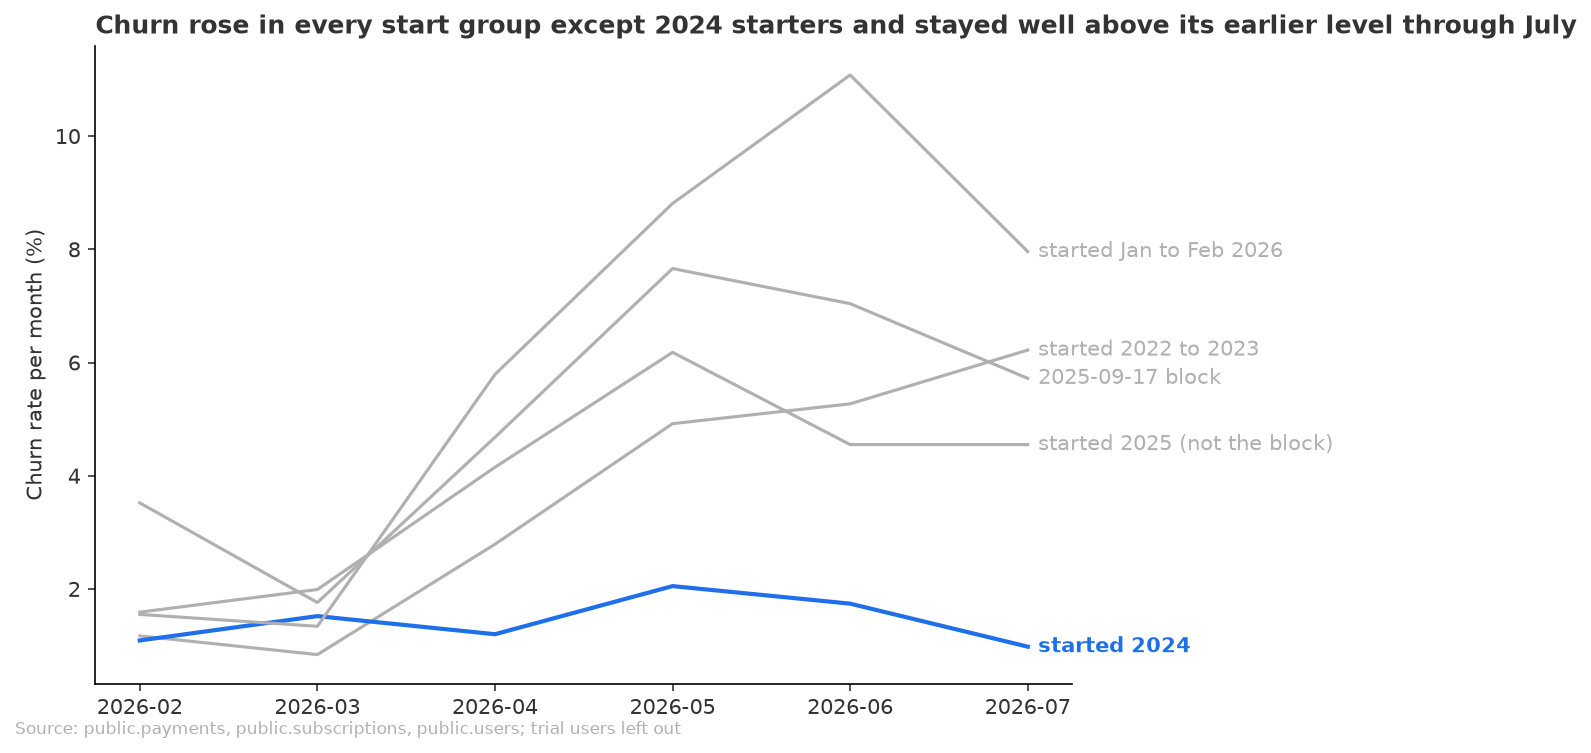
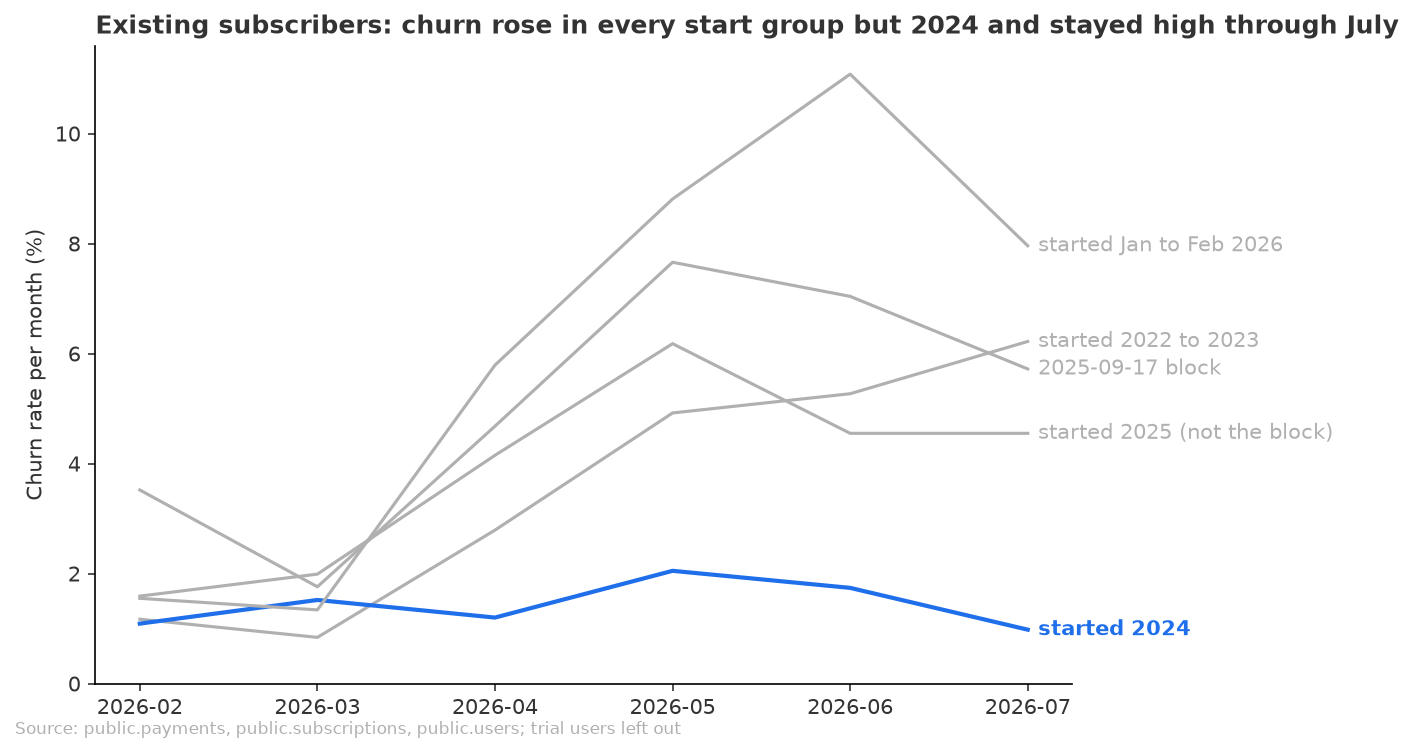
Validate round 2 fixes: compounding $10 counterfactual, July rate as third case

diff --git a/outputs/2026-11-17_price-rise-rollback/analysis.py b/outputs/2026-11-17_price-rise-rollback/analysis.py
@@ -227,11 +227,32 @@ def group_rate(df):
     return df["missed_renewals"].sum() / df["renewals_due"].sum()
 
 
+AFTER_MONTHS = ["2026-03", "2026-04", "2026-05", "2026-06", "2026-07"]
+# Entries into the renewal stream after the rise: existing groups are closed, so all of them enter with
+# their March renewals; new subscribers enter at their first renewal each month.
+new_first = early[(early["start_group"] == "new") & (early["renewal_number"].astype(str) == "1")]
+new_entries = new_first.set_index("due_month")["renewals_due"].reindex(AFTER_MONTHS, fill_value=0)
+
+
+def counterfactual_10(entries, c0):
+    """Revenue Mar to Jul had the price stayed $10: renewals carried forward month by month at the $10
+    churn rate, so subscribers lost to the extra churn keep paying on this side."""
+    due, revenue = 0.0, 0.0
+    for m in AFTER_MONTHS:
+        due += entries.get(m, 0)
+        paid = due * (1 - c0)
+        revenue += paid * OLD_PRICE
+        due = paid
+    return revenue
+
+
 rows = []
 for g in GROUPS:
     d = coh[coh["group"] == g]
     young = g in ("new (started at $12)", "started Jan to Feb 2026")
     c0 = e.churn_rate_before if young else group_rate(d[d["period"] == "before"])
+    entries = (new_entries.to_dict() if g == "new (started at $12)"
+               else {"2026-03": d.loc[d["due_month"] == "2026-03", "renewals_due"].sum()})
     rows.append({
         "group": g,
         "base_jul_2026": d.loc[d["due_month"] == "2026-07", "renewals_due"].sum(),
@@ -239,25 +260,32 @@ for g in GROUPS:
         "churn_at_10_source": "pre-March starters, first three renewals" if young else "own, Nov 2025 to Feb 2026",
         "churn_at_12_settled": group_rate(d[d["due_month"] >= "2026-05"]),
         "churn_at_12_mar_jul": group_rate(d[d["period"] == "after"]),
-        # Observed so far: each renewal due Mar to Jul at $12 with the churn seen, against the same
-        # renewals at $10 with the $10 churn rate (one month each, no compounding).
+        "churn_at_12_jul": group_rate(d[d["due_month"] == "2026-07"]),
+        # Observed so far: renewals actually paid Mar to Jul at $12, against the same entries carried
+        # forward at $10 with the $10 churn rate.
         "observed_mar_jul_at_12": ((d.loc[d["period"] == "after", "renewals_due"]
                                     - d.loc[d["period"] == "after", "missed_renewals"]) * NEW_PRICE).sum(),
-        "counterfactual_mar_jul_at_10": (d.loc[d["period"] == "after", "renewals_due"] * (1 - c0) * OLD_PRICE).sum(),
+        "counterfactual_mar_jul_at_10": counterfactual_10(entries, c0),
     })
 money = pd.DataFrame(rows)
 money["observed_gain_mar_jul"] = money["observed_mar_jul_at_12"] - money["counterfactual_mar_jul_at_10"]
 money["rollback_10_12m"] = money.apply(lambda r: revenue_12m(r.base_jul_2026, r.churn_at_10, OLD_PRICE), axis=1)
-money["keep_12_12m_settled"] = money.apply(lambda r: revenue_12m(r.base_jul_2026, r.churn_at_12_settled, NEW_PRICE), axis=1)
-money["keep_12_12m_mar_jul"] = money.apply(lambda r: revenue_12m(r.base_jul_2026, r.churn_at_12_mar_jul, NEW_PRICE), axis=1)
-money["gain_12m_settled"] = money["keep_12_12m_settled"] - money["rollback_10_12m"]
-money["gain_12m_mar_jul"] = money["keep_12_12m_mar_jul"] - money["rollback_10_12m"]
+for case in ("settled", "mar_jul", "jul"):
+    money[f"keep_12_12m_{case}"] = money.apply(
+        lambda r: revenue_12m(r.base_jul_2026, r[f"churn_at_12_{case}"], NEW_PRICE), axis=1)
+    money[f"gain_12m_{case}"] = money[f"keep_12_12m_{case}"] - money["rollback_10_12m"]
 money["breakeven_churn_at_12"] = money["churn_at_10"].map(breakeven_churn)
 money["headroom_pp_settled"] = (money["breakeven_churn_at_12"] - money["churn_at_12_settled"]) * 100
+signs = money[["gain_12m_settled", "gain_12m_mar_jul", "gain_12m_jul"]].gt(0)
+money["call_12m"] = signs.all(axis=1).map({True: "keep $12"}).fillna(
+    (~signs).all(axis=1).map({True: "roll back to $10"})).fillna("too close to call")
 total = money[["base_jul_2026", "observed_mar_jul_at_12", "counterfactual_mar_jul_at_10", "observed_gain_mar_jul",
-               "rollback_10_12m", "keep_12_12m_settled", "keep_12_12m_mar_jul", "gain_12m_settled",
-               "gain_12m_mar_jul"]].sum()
-money = pd.concat([money, pd.DataFrame([{"group": "all monthly", **total.to_dict()}])], ignore_index=True)
+               "rollback_10_12m", "keep_12_12m_settled", "keep_12_12m_mar_jul", "keep_12_12m_jul",
+               "gain_12m_settled", "gain_12m_mar_jul", "gain_12m_jul"]].sum()
+tsigns = [total[c] > 0 for c in ("gain_12m_settled", "gain_12m_mar_jul", "gain_12m_jul")]
+total_call = "keep $12" if all(tsigns) else "roll back to $10" if not any(tsigns) else "too close to call"
+money = pd.concat([money, pd.DataFrame([{"group": "all monthly", **total.to_dict(), "call_12m": total_call}])],
+                  ignore_index=True)
 money.to_csv(DATA / "revenue_keep_vs_rollback_by_group.csv", index=False)
 show("group bases add to July 2026 renewals due",
      parts_sum_to_total(money.loc[money["group"] != "all monthly", "base_jul_2026"],
@@ -265,10 +293,11 @@ show("group bases add to July 2026 renewals due",
 print("\nKeep $12 minus roll back to $10, by group (July 2026 base)")
 for _, r in money.iterrows():
     rates_txt = ("" if r.group == "all monthly" else
-                 f"churn {r.churn_at_10:.2%} -> settled {r.churn_at_12_settled:.2%} (Mar-Jul {r.churn_at_12_mar_jul:.2%}), "
-                 f"break-even {r.breakeven_churn_at_12:.2%}; ")
+                 f"churn {r.churn_at_10:.2%} -> settled {r.churn_at_12_settled:.2%} (Mar-Jul {r.churn_at_12_mar_jul:.2%}, "
+                 f"Jul {r.churn_at_12_jul:.2%}), break-even {r.breakeven_churn_at_12:.2%}; ")
     print(f"  {r.group:30s} base {r.base_jul_2026:5,.0f}  {rates_txt}observed Mar-Jul {r.observed_gain_mar_jul:+,.0f}; "
-          f"12 months settled {r.gain_12m_settled:+,.0f}, Mar-Jul rate {r.gain_12m_mar_jul:+,.0f}")
+          f"12 months settled {r.gain_12m_settled:+,.0f}, Mar-Jul rate {r.gain_12m_mar_jul:+,.0f}, "
+          f"Jul rate {r.gain_12m_jul:+,.0f}; call: {r.call_12m}")
 
 # ---- Charts -------------------------------------------------------------------------------------
 def relabel(fig, values, fmt):
@@ -292,11 +321,13 @@ for g in GROUPS:
     m = coh_month[coh_month["group"] == g].set_index("due_month")["churn_rate"]
     if all(x in m.index for x in after_months):
         series[g] = (m.reindex(after_months) * 100).round(2).tolist()
-charts.save(charts.line(
+fig = charts.line(
     after_months, series,
-    "Churn rose in every start group except 2024 starters and stayed well above its earlier level through July",
+    "Existing subscribers: churn rose in every start group but 2024 and stayed high through July",
     highlight="started 2024",
-    ylabel="Churn rate per month (%)", source=SOURCE), CHARTS / "churn_by_group_and_month.png")
+    ylabel="Churn rate per month (%)", source=SOURCE)
+fig.axes[0].set_ylim(bottom=0)
+charts.save(fig, CHARTS / "churn_by_group_and_month.png")
 
 ch = coh_half.set_index("start_cohort")
 seg_rows = [(f"existing, {b}", existing_noblock.set_index("tenure_band").loc[b, "change_pp"]) for b in order]
